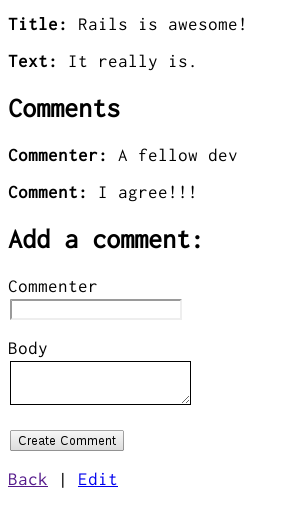
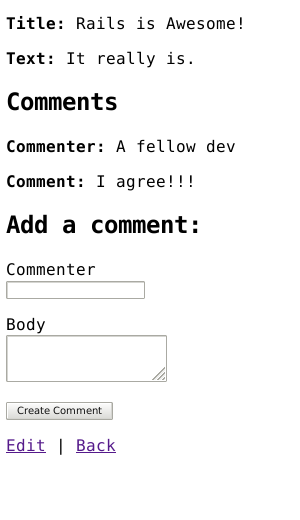
Use consistent anchor text throughout the guide.
Change all of anchor text in the nav links to `Back` and `Edit`
Use `Edit | Back` on pages that use both links to conform to what
scaffolding generates.

Use consistent anchor text throughout the guide.

Change all of anchor text in the nav links to `Back` and `Edit`
Use `Edit | Back` on pages that use both links to conform to what
scaffolding generates.

diff --git a/guides/source/getting_started.md b/guides/source/getting_started.md
@@ -1271,8 +1271,8 @@ bottom of the template:
 ```html+erb
 ...
 
-<%= link_to 'Back', articles_path %> |
-<%= link_to 'Edit', edit_article_path(@article) %>
+<%= link_to 'Edit', edit_article_path(@article) %> |
+<%= link_to 'Back', articles_path %>
 ```
 
 And here's how our app looks so far:
@@ -1681,8 +1681,8 @@ So first, we'll wire up the Article show template
   </p>
 <% end %>
 
-<%= link_to 'Back', articles_path %> |
-<%= link_to 'Edit', edit_article_path(@article) %>
+<%= link_to 'Edit', edit_article_path(@article) %> |
+<%= link_to 'Back', articles_path %>
 ```
 
 This adds a form on the `Article` show page that creates a new comment by
@@ -1762,8 +1762,8 @@ add that to the `app/views/articles/show.html.erb`.
   </p>
 <% end %>
 
-<%= link_to 'Edit Article', edit_article_path(@article) %> |
-<%= link_to 'Back to Articles', articles_path %>
+<%= link_to 'Edit', edit_article_path(@article) %> |
+<%= link_to 'Back', articles_path %>
 ```
 
 Now you can add articles and comments to your blog and have them show up in the
@@ -1828,8 +1828,8 @@ following:
   </p>
 <% end %>
 
-<%= link_to 'Edit Article', edit_article_path(@article) %> |
-<%= link_to 'Back to Articles', articles_path %>
+<%= link_to 'Edit', edit_article_path(@article) %> |
+<%= link_to 'Back', articles_path %>
 ```
 
 This will now render the partial in `app/views/comments/_comment.html.erb` once
@@ -1878,8 +1878,8 @@ Then you make the `app/views/articles/show.html.erb` look like the following:
 <h2>Add a comment:</h2>
 <%= render 'comments/form' %>
 
-<%= link_to 'Edit Article', edit_article_path(@article) %> |
-<%= link_to 'Back to Articles', articles_path %>
+<%= link_to 'Edit', edit_article_path(@article) %> |
+<%= link_to 'Back', articles_path %>
 ```
 
 The second render just defines the partial template we want to render,
